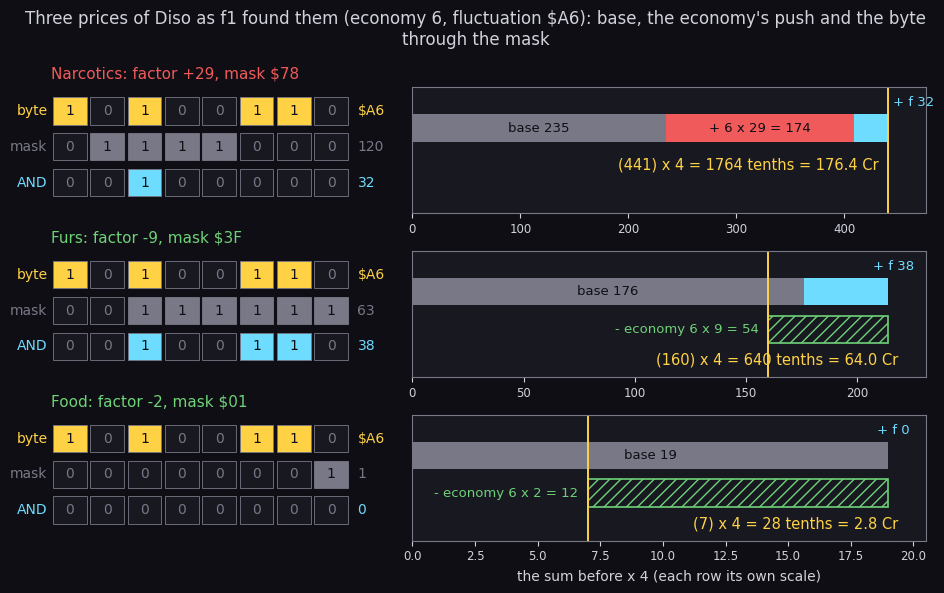
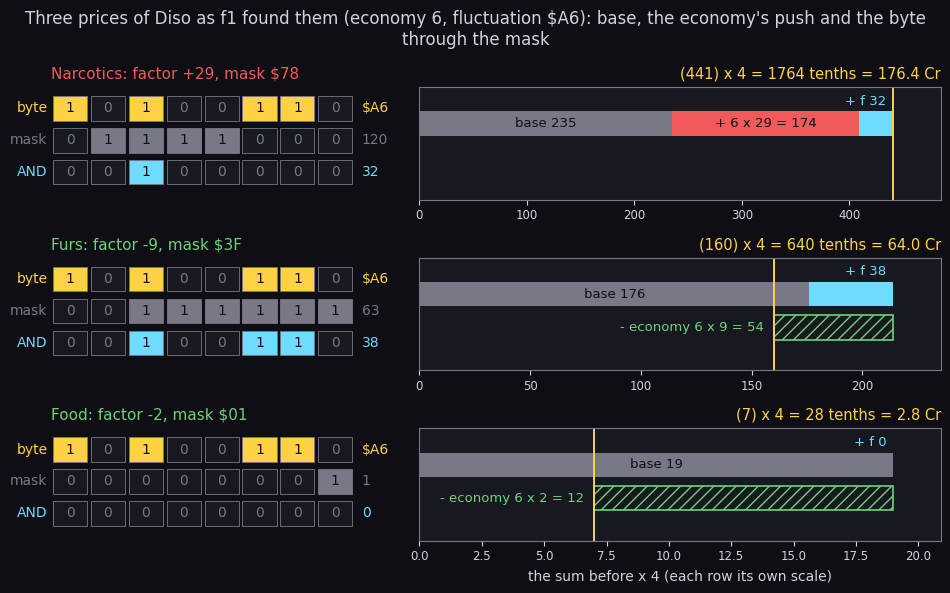
elite: the trading guide's price recipe with the result above each bar, no text over the lines

diff --git a/games/elite/tools/fig_trading.py b/games/elite/tools/fig_trading.py
@@ -104,18 +104,16 @@ def recipe():
                     va='center', fontsize=9.5, color=P.BACKGROUND)
             left += product
         ax.barh(0.25, f, left=left, color=CYAN, height=0.4)
-        ax.text(left + f + top * 0.01, 0.62, '+ f %d' % f, ha='left' if sign > 0 else 'center', va='center',
-                fontsize=9.5, color=CYAN)
+        ax.text(left + f - top * 0.015, 0.62, '+ f %d' % f, ha='right', va='center', fontsize=9.5, color=CYAN)
         end = base + f + sign * product
         if sign < 0:
             ax.barh(-0.3, product, left=end, color='none', edgecolor=colour(i), hatch='///', height=0.4, lw=1.2)
             ax.text(end - top * 0.02, -0.3, '- economy %d x %d = %d' % (e, factor & 0x1F, product), ha='right',
                     va='center', fontsize=9.5, color=colour(i))
         ax.axvline(end, color=P.WRITE, lw=1.4)
-        ax.text(end - top * 0.02 if sign > 0 else top * 1.02, -0.3 if sign > 0 else -0.75,
-                '(%d) x 4 = %d tenths = %s Cr' % (end, price, cr(price)), color=P.WRITE, fontsize=10.5,
-                va='center', ha='right' if sign > 0 else 'right')
-        ax.set_xlim(0, top * 1.08)
+        ax.set_title('(%d) x 4 = %d tenths = %s Cr' % (end, price, cr(price)), color=P.WRITE, fontsize=10.5,
+                     loc='right')
+        ax.set_xlim(0, top * 1.1)
         ax.set_ylim(-1.0, 0.85)
         ax.set_yticks([])
         ax.tick_params(labelsize=8.5)
